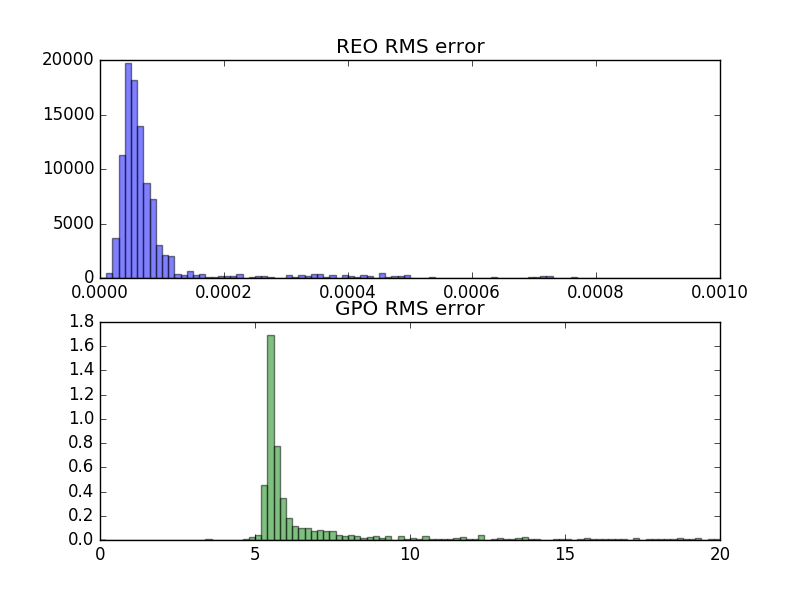
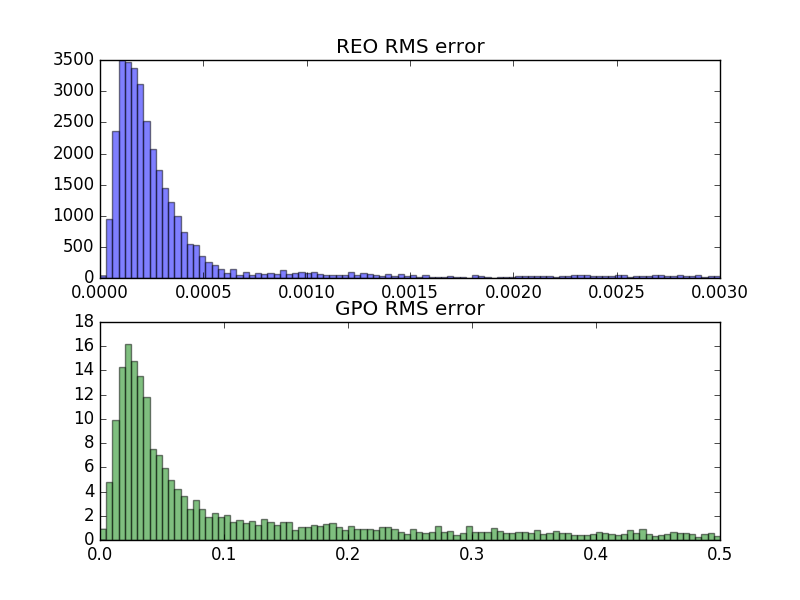
updated crazy heading and nice equivalence plots

Changed region(s): [[0.0938, 0.51, 0.9062, 0.93], [0.0625, 0.09, 0.9062, 0.51], [0.9062, 0.48, 0.9375, 0.51]]

diff --git a/latex/edge_vs_pose_optimization.tex b/latex/edge_vs_pose_optimization.tex
@@ -2,18 +2,6 @@
 
 \section{Comparison: Relative Edge vs. Pose Optimization}
 
-\begin{figure}
-  \includegraphics[width=0.7\textwidth]{figures/house_trajectory.png}
-  \caption{One sample from the well-conditioned house trajectory with identical optimization results from relative edge optimization and global pose optimization}
-  \label{fig:house_trajectory}
-\end{figure}
-
-\begin{figure}
-  \includegraphics[width=\textwidth]{figures/REO_vs_GPO_good.png}
-  \caption{RMS error between optimized poses found by relative edge optimization and global pose optimization for a simulation study of 10,000 well-conditioned house trajectories.}
-  \label{fig:convergence_house}
-\end{figure}
-
 % show that they are equivalent
 It can be plainly observed from comparing Eq~\ref{eqn:global_opt} and Eq~\ref{eqn:relative_opt} that relative edge optimization simply parametertizes the same cost function with relative edge constraints as opposed to global constraints, and therefore should result in an equivalent solution.  However, due to the different linearization between the two parameterizations, a simulation study was performed to show the equivalence of global pose and edge-based optimization. This was performed by optimization of a house-shaped trajectory, shown in Figure~\ref{fig:house_trajectory} which was corrupted with random gaussian noise, had a random selction of edges were reversed and a loop closure placed between nodes at the bottom left corner of the trajectory. This was repeated 10,000 times.  To evaluate performance of these optimizations, we employed the following RMS error metric, which can be described as the difference between the optimized global pose positions found by optimizer $j$ and optimizer $l$.
 
@@ -21,24 +9,38 @@ It can be plainly observed from comparing Eq~\ref{eqn:global_opt} and Eq~\ref{eq
     J_{RMS}(\xhat^j, \xhat^l) = \sum_{i=0}^n \lVert \xhat^j_i - \xhat^l_i \rVert
 \end{align}
 
-In the case of low heading error, every one of these optimizations produced virtually identical results between global pose and edge-based optimization.  A histogram of RMS error between the global pose of each node of the solution found by both optimizations is shown in Figure~\ref{fig:convergence_house}.  The iSAM2 package implemented in GTSAM was used as the global pose optimization algorithm, while an implementation of Algorithm~\ref{algo:reversed} was used for relative edge optimization
+In the case of low heading error, every one of these optimizations produced virtually identical results between global pose and edge-based optimization.  A histogram of RMS error between the global pose of each node of the solution found by both optimizations is shown in Figure~\ref{fig:convergence_house}.  The iSAM2 package implemented in GTSAM was used as the global pose optimization algorithm, while an implementation of Algorithm~\ref{algo:reversed} was used for relative edge optimization.  It should be noted that the addition of small translation noise in the trajectory results in a global minima of the optimization problem not located at the true trajectory.  This is typical of all pose graph optimizations as described by~\cite{POSE_GRAPH_ERROR}.  Therefore, the optimization approaches are best compared directly with one another, rather than against the ground truth.
+
+\begin{figure}
+  \includegraphics[width=0.7\textwidth]{figures/house_trajectory.png}
+  \caption{One sample from the house trajectory simulation study with small errors in both translation and heading with identical optimization results from relative edge optimization and global pose optimization}
+  \label{fig:house_trajectory}
+\end{figure}
+
+\begin{figure}[H]
+  \includegraphics[width=\textwidth]{figures/REO_vs_GPO_good.png}
+  \caption{RMS error between optimized poses found by relative edge optimization (REO) and global pose optimization (GPO) for a simulation study of 10,000 house trajectories with small errors in both translation and heading.}
+  \label{fig:convergence_house}
+\end{figure}
 
 % describe differences (pros/cons)
-Differences between the performance of global pose graph and relative edge-based optimizations can be observed by stressing linearization errors in the various parameterizations.  As an example, a random house trajectory was generated with perfect translation measurements, but heading errors sampled from $\mathcal{N}(0, 40^\circ)$. Five perfect randomly assigned loop closures were added to the trajectory and the trajectory was given to both GPO and REO.  This process was repeated 1,000 times.  Figure~\ref{fig:GPO_heading_divergence} shows an example of one of these trajectories.  RMS error between the final global pose of each node of the true trajectory and the optimized result was also calculated for each optimization algorithm. REO was able to converge to within 0.0005m of the true solution every time, while GPO was never able to find the correct solution.
+% Talk about crazy heading error
+Differences between the performance of global pose graph and relative edge-based optimizations can be observed by stressing linearization errors in the various parameterizations.  As a first example, a random house trajectory was generated with perfect translation measurements, but heading errors sampled from $\mathcal{N}(0, 40^\circ)$. Five perfect randomly assigned loop closures were added to the trajectory and the trajectory was given to both GPO and REO.  This process was also repeated 10,000 times.  Figure~\ref{fig:GPO_heading_divergence} shows an example of one of these trajectories, and a histogram of the RMS error of the two approaches is shown in Figure~\ref{fig:GPO_bad_histogram}. REO was able to find the true solution to within 0.001m for 90\% of the trajectories, with a max error of 0.0100m and mean of 0.0004585m.  GPO converged to within 0.001m on only a single trajectory, had a max error of 9.825$\times 10 ^{39}m$ and a mean error of 9.856$\times 10 ^{35}$.
 
- % For example, if the house trajectory is initialized with a 180$^\circ$ heading error, and provided global measurements via a virtual zero per the method described in~\cite{CITE}, the global pose optimization often struggles to find the global minimum.  A similar experiment with 10,000 house trajectories was performed, except with the addition of a global measurement located at the peak of the house.  In this study, the pose graph optimization failed to converge to the correct optimum (As shown in Figure~\ref{fig:GPO_heading_divergence}) $20\%$ of the time, came to the same result but took more iterations as relative edge optimization $50\%$ of the time, and performed equivalently (same number of iterations, same result) the remaining $30\%$ of the time.
+\begin{figure}[H]
+  \includegraphics[width=0.7\textwidth]{figures/GPO_diverged.png}
+  \caption{One sample from simulation study with perfect translation measurements, five randomly assigned perfect loop closure constraints and significant heading error.  In this case, REO found the true solution while GPO diverged.}
+  \label{fig:GPO_heading_divergence}
+\end{figure}
 
- \begin{figure}[H]
-   \includegraphics[width=0.7\textwidth]{figures/GPO_diverged.png}
-   \caption{One sample from simulation study with perfect translation measurements, five randomly assigned perfect loop closure constraints and significant heading error.  In this case, REO found the true solution while GPO diverged.}
-   \label{fig:GPO_heading_divergence}
- \end{figure}
+\begin{figure}[H]
+  \includegraphics[width=0.7\textwidth]{figures/GPO_vs_REO_bad.png}
+  \caption{histogram of RMS error calculated for the final global position of each node after each of 10,000 optimizations with significant heading error, but perfect translation measurements and five randomly assigned, perfect loop closure constraints. The maximum value of RMS error for REO in this study was 0.01004m and the maximum value of RMS error for GPO was 9.825$\times 10 ^{39}m$. Both histograms have been truncated to show details of the histogram at lower values of RMS error despite having quite long tails.}
+  \label{fig:GPO_bad_histogram}.
+\end{figure}
 
- \begin{figure}[H]
-   \includegraphics[width=0.7\textwidth]{figures/GPO_vs_REO_bad.png}
-   \caption{histogram of RMS error calculated for the final global position of each node after each of 1000 optimizations with significant heading error, but perfect translation measurements and five randomly assigned, perfect loop closure constraints.  REO was able to find the true soultion to within 0.0005m for each trajectory, with a mean error of 0.00011m.  GPO never converged to the correct solution.}
-   \label{fig:GPO_bad_histogram}
- \end{figure}
+% Talk about bad initialization
+Another simulation study was performed in which the house trajectory was initialized with a 180$^\circ$ heading error, and provided global measurements via a virtual zero per the method described in~\cite{CITE}. the global pose optimization often struggles to find the global minimum.  A similar experiment with 10,000 house trajectories was performed, except with the addition of a global measurement located at the peak of the house.  In this study, the pose graph optimization failed to converge to the correct optimum (As shown in Figure~\ref{fig:GPO_heading_divergence}) $20\%$ of the time, came to the same result but took more iterations as relative edge optimization $50\%$ of the time, and performed equivalently (same number of iterations, same result) the remaining $30\%$ of the time.
 
 While relative edge optimization promises significant improvements in dealing with initialization errors when compared with global pose optimization, it is not as easily scaleable as global pose graph optimization.  In particular, the calculation of $\frac {\partial\Delta t_{a-z}}{\partial\Delta t_{ij}}$ causes significant correlations between edge estimates in a loop closure.  This ultimately leads to a loss of sparsity in the calculation of $\mathbf{H}_{az}^\top \Omega_{az} \mathbf{H}_{az}$ in Equation~\ref{eqn:3d_opt}.  The parameterization of global pose optimization however, does not run into this issue and can therefore exploit sparsity in solving for $\Delta \mathbf{x}$.  This becomes most important when considering a loop closure with a large number of edges where a dense matrix decomposition can be very costly. Secondly, in typical pose graph implementation, the number of edges can grow explosively if an agent repeatedly navigates the same area.  In this situation, the sum in the second term of the cost function in Equation~\ref{eqn:cost_function} can become extremely large and costly to calculate.
 

diff --git a/python/compare_REO_and_GTSAM.py b/python/compare_REO_and_GTSAM.py
@@ -28,15 +28,15 @@ def generate_house():
 
     dirs = np.array([1, 1, 1, 1, 1, 1, 1, 1])
 
-    Omegas = [np.diag([1e2, 1e2, 1e3]) for i in range(perfect_edges.shape[1])]
+    Omegas = [np.diag([1e6, 1e6, 3]) for i in range(perfect_edges.shape[1])]
     # Omegas = [np.diag([1e2, 1e2, 1e3]) for i in range(perfect_edges.shape[1])]
 
     odometry = np.zeros((num_robots, 3, perfect_edges.shape[1]))
     global_estimate = np.zeros((num_robots, 3, perfect_edges.shape[1]+1))
     truth = get_global_pose(perfect_edges, x0.copy())
     for robot in range(num_robots):
-        edge_noise = np.array([[np.random.normal(0, 1. / Omegas[i][0][0]) for i in range(perfect_edges.shape[1])],
-                               [np.random.normal(0, 1. / Omegas[i][1][1]) for i in range(perfect_edges.shape[1])],
+        edge_noise = np.array([[0.*np.random.normal(0, 1. / Omegas[i][0][0]) for i in range(perfect_edges.shape[1])],
+                               [0.*np.random.normal(0, 1. / Omegas[i][1][1]) for i in range(perfect_edges.shape[1])],
                                [np.random.normal(0, 1. / Omegas[i][2][2]) for i in range(perfect_edges.shape[1])]])
 
         noisy_edges = perfect_edges + edge_noise
@@ -63,7 +63,7 @@ def generate_house():
               ['0_' + str(i+1).zfill(3) for i in range(6+1)]]
 
     # Turn off some loop closures
-    active_lc = [0,1]
+    active_lc = [0, 1, 4, 6, 7]
     lc = lc[:, active_lc]
     lc_omega = [lc_omega[i] for i in active_lc]
     lc_dir = lc_dir[active_lc, None]
@@ -286,11 +286,12 @@ if __name__ == '__main__':
         diff_error_list.append(diff_error)
         REO_avg_iter_sum += float(REO_iters)
 
-        if REO_error < 0.5:
+        if REO_error < 0.001:
             REO_correct_count += 1
-        if GPO_error < 0.5:
+        if GPO_error < 0.001:
             GPO_correct_count += 1
-        if REO_error > 1 or GPO_error > 1:
+
+        if REO_error > 1:# or GPO_error > 1:
             print "REO error = ", REO_error
             print "GPO_error = ", GPO_error
             plt.figure(1)
@@ -311,20 +312,22 @@ if __name__ == '__main__':
     print "avg REO error:", sum(REO_error_list)/float(num_robots)
     print "avg GPO error:", sum(GPO_error_list) / float(num_robots)
     print "avg REO iter:", REO_avg_iter_sum / float(num_robots)
+    print "max REO error:", max(REO_error_list)
+    print "max GPO error:", max(GPO_error_list)
     print "num REO correct:", REO_correct_count
     print "num GPO correct:", GPO_correct_count
 
     plt.figure(1)
     plt.clf()
-    plt.subplot(122)
-    plt.title("GPO - REO RMS error")
-    plt.hist(diff_error_list, 50, normed=1, facecolor="red", alpha=0.5)
-    plt.subplot(221)
+    # plt.subplot(122)
+    # plt.title("GPO - REO RMS error")
+    # plt.hist(diff_error_list, 50, normed=1, facecolor="red", alpha=0.5)
+    plt.subplot(211)
     plt.title("REO RMS error")
-    plt.hist(REO_error_list, 100, normed=1, facecolor="blue", alpha=0.5)
-    plt.subplot(223)
+    plt.hist(REO_error_list, 100, normed=1, facecolor="blue", alpha=0.5, range=[0,0.003])
+    plt.subplot(212)
     plt.title("GPO RMS error")
-    plt.hist(GPO_error_list, 100, normed=1, facecolor="green", alpha=0.5)
+    plt.hist(GPO_error_list, 100, normed=1, facecolor="green", alpha=0.5, range=[0,0.5])
 
     plt.show()
 
